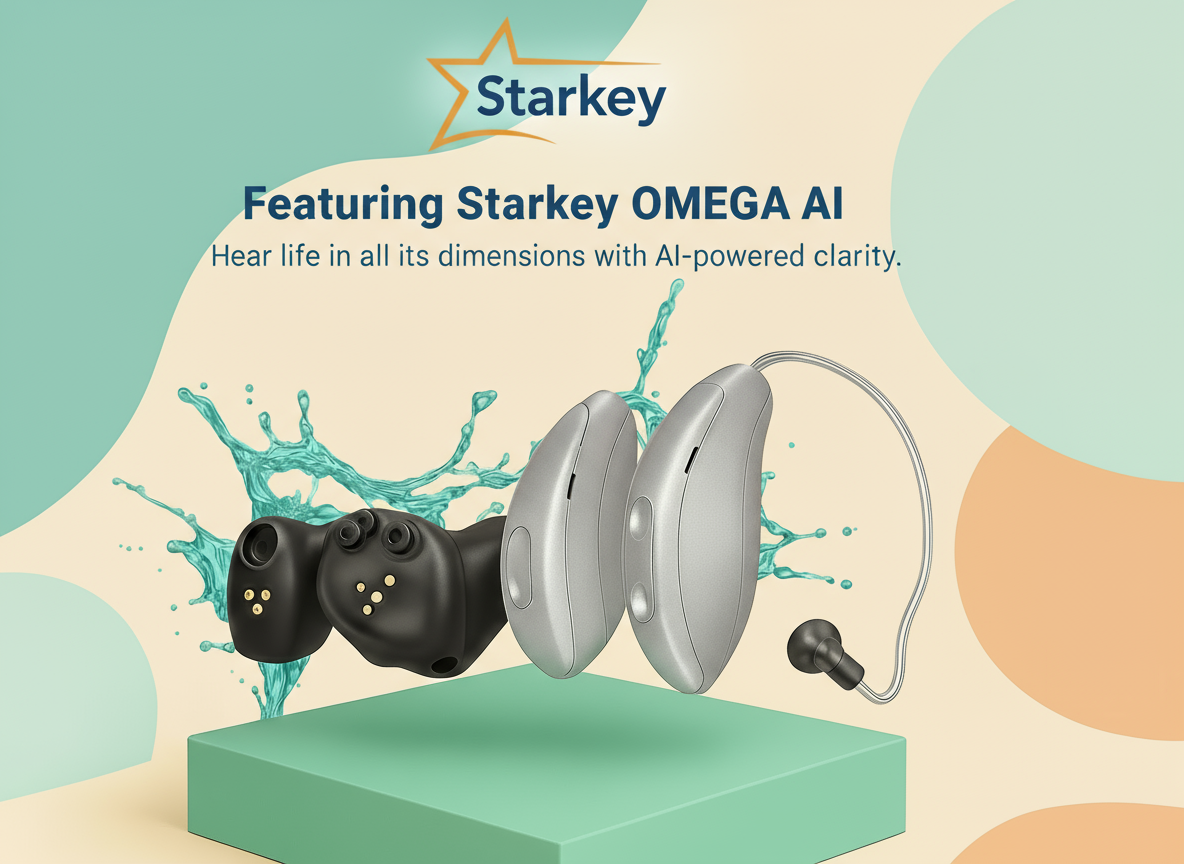
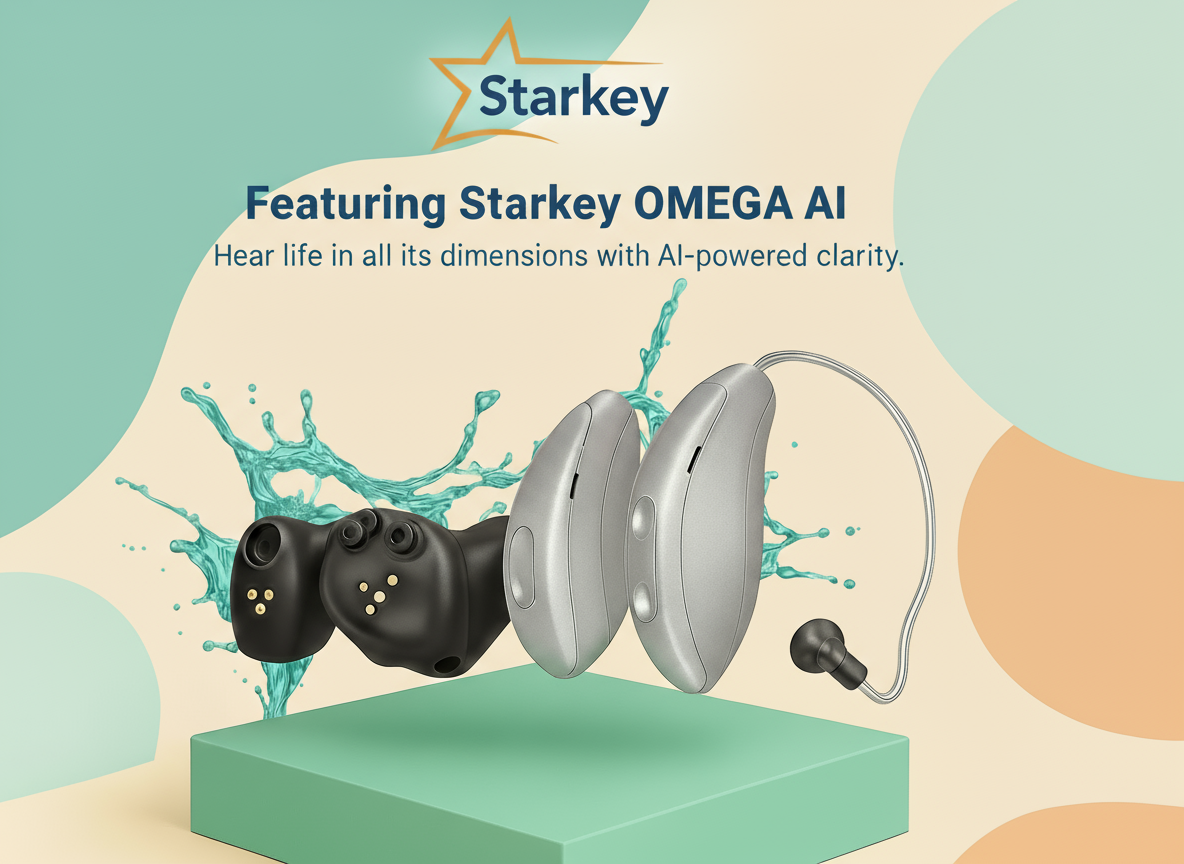
Fix: Adjust hero image and section

diff --git a/src/components/Hero.tsx b/src/components/Hero.tsx
@@ -16,7 +16,7 @@ const Hero = () => {
   };
 
   return (
-    <section className="relative min-h-[600px] md:min-h-[700px] flex items-center overflow-hidden">
+    <section className="relative min-h-[600px] md:min-h-[700px] flex items-center">
       {/* Background with subtle pattern */}
       <div className="absolute inset-0">
         <div className="absolute inset-0" style={{ 
@@ -93,7 +93,7 @@ const Hero = () => {
 
           {/* 3D Hearing Aid Image - Now visible on mobile */}
           <motion.div 
-            className="flex justify-center items-center mt-8 md:mt-0 px-4"
+            className="flex justify-center items-center mt-8 md:mt-0 px-4 pb-8 md:pb-12"
             initial="hidden"
             whileInView="visible"
             viewport={{ once: true, amount: 0.3 }}
